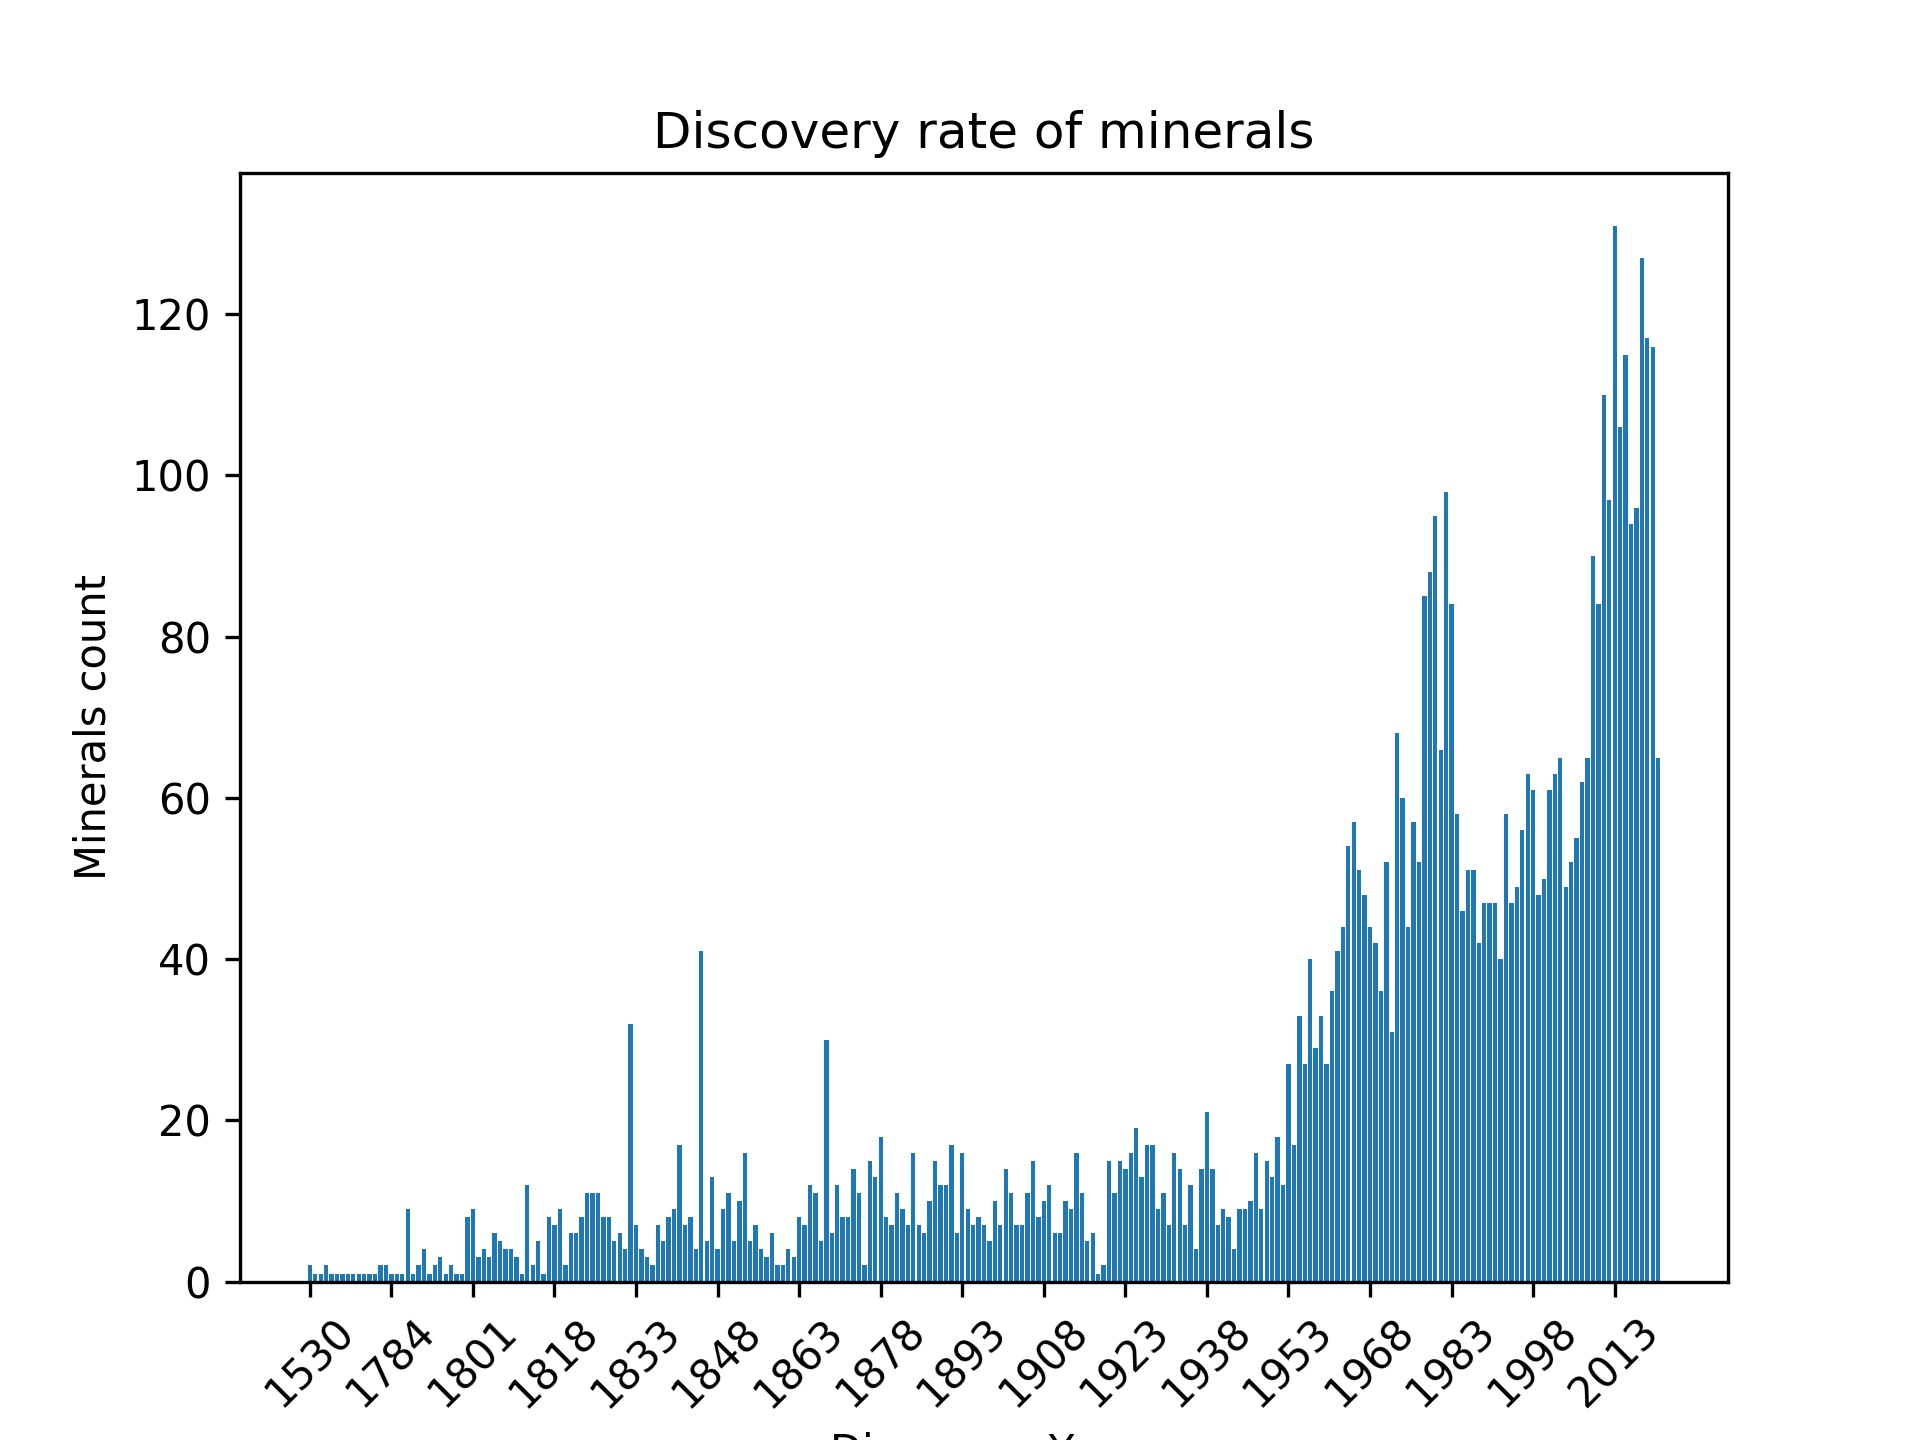
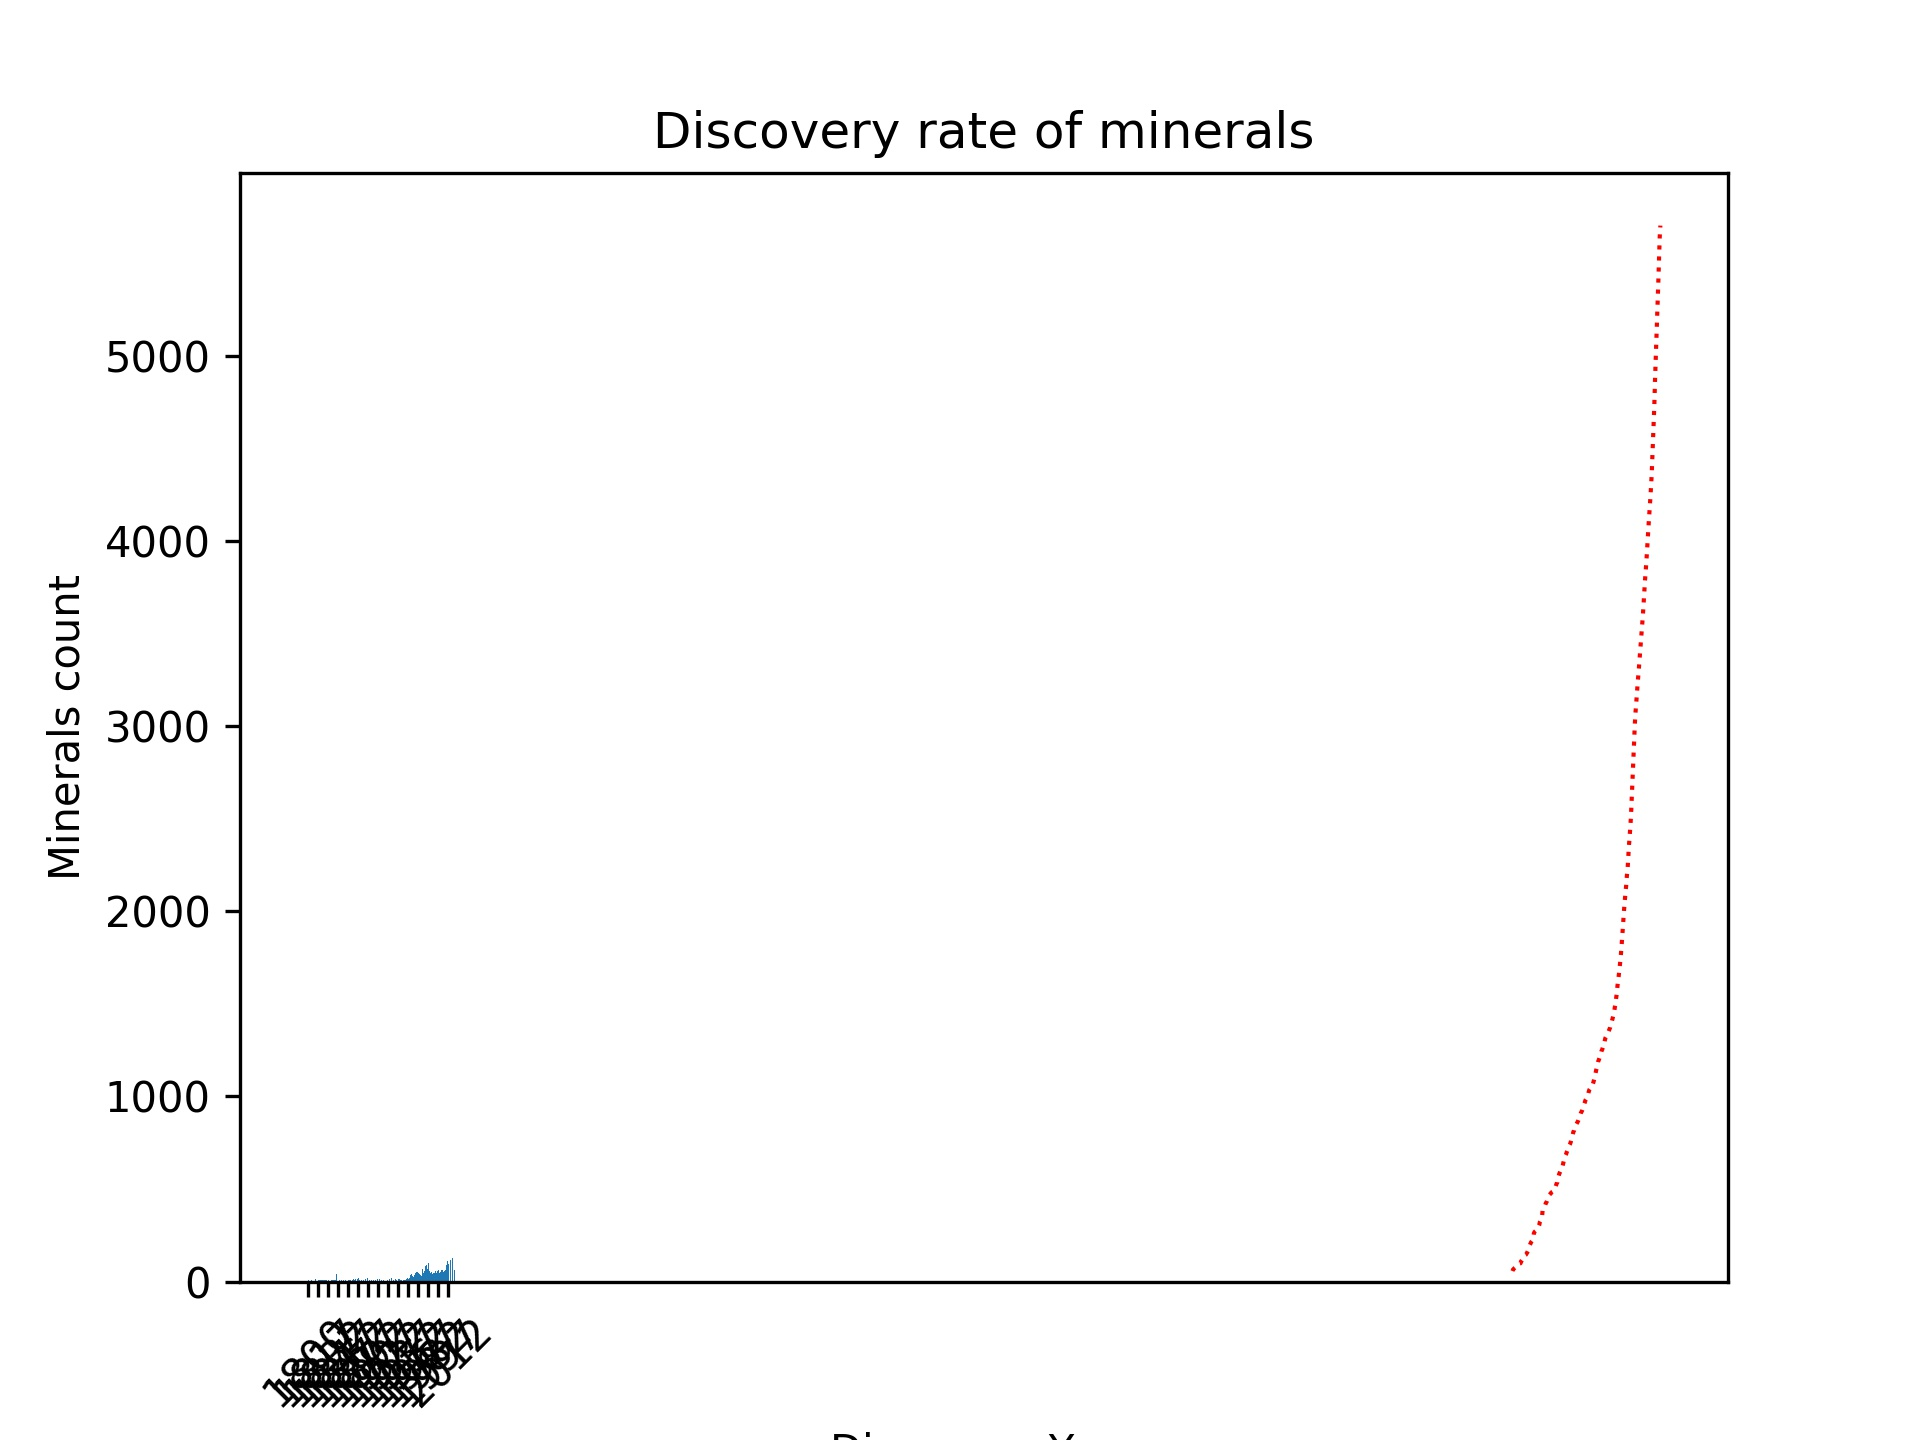
fetch changes

diff --git a/main/compare_localities_vs_year.py b/main/compare_localities_vs_year.py
@@ -57,8 +57,12 @@ mindat_rruff = mindat_rruff[['discovery_year', 'locality_counts']]
 
 # get proportions of rare and endemic minerals
 mindat_rruff.loc[(mindat_rruff['locality_counts'] == 1)]
+mindat_rruff.loc[(mindat_rruff['locality_counts'] >= 2) & (mindat_rruff['locality_counts'] <= 4)]
 
-len(mindat_rruff.loc[(mindat_rruff['locality_counts'] <= 18) & (mindat_rruff['locality_counts'] > 5)]) / 5762 * 100
+mindat_rruff.loc[mindat_rruff['locality_counts'].isna(), 'locality_counts'] = 1.0
+len(mindat_rruff.loc[(mindat_rruff['locality_counts'] > 18)]) / len(mindat_rruff) * 100
+len(mindat_rruff.loc[(mindat_rruff['locality_counts'] <= 18) & (mindat_rruff['locality_counts'] >= 5)]) / len(mindat_rruff) * 100
+len(mindat_rruff.loc[(mindat_rruff['locality_counts'] <= 4) ]) / len(mindat_rruff) * 100
 
 ## Get discovery rates (localities from mindat, discovery year from RRUFF)
 
@@ -66,14 +70,17 @@ discovery_rate_all = get_discovery_rate_all(mindat_rruff)
 discovery_rate_endemic = get_discovery_rate_endemic(mindat_rruff)
 endemic_proportion = get_endemic_proportion(discovery_rate_endemic, discovery_rate_all)
 
+discovery_rate_all['count_cumulative'] = discovery_rate_all.cumsum()
+discovery_rate_all = discovery_rate_all.loc[discovery_rate_all.index >= 1800]
 
-# bar chart of discovery rate of all minerals
+# bar chart of discovery rate of all minerals between 1800 and 2021
 
 y_pos = np.arange(len(discovery_rate_all.index))
 x_ticks = np.arange(len(discovery_rate_all.index), step=15)
 x_labels = discovery_rate_all.index[x_ticks]
 
 plt.bar(y_pos, discovery_rate_all['count'])
+plt.plot(discovery_rate_all.index, discovery_rate_all[['count_cumulative']], color='red', linestyle='dotted', linewidth=1)
 
 plt.xticks(x_ticks, np.array(x_labels, dtype=int), rotation=45)
 
@@ -82,6 +89,19 @@ plt.ylabel('Minerals count')
 plt.title('Discovery rate of minerals')
 
 plt.savefig(f"figures/all_minerals/discovery_rate.jpeg", dpi=300, format='jpeg')
+
+plt.close()
+
+
+# cumulative curve of discovery rate for all minerals
+
+plt.plot(discovery_rate_all.index, discovery_rate_all[['count_cumulative']], color='red', linestyle='dotted', linewidth=1)
+
+plt.xlabel('Discovery Year')
+plt.ylabel('Minerals count')
+plt.title('Discovery rate of minerals')
+
+plt.savefig(f"figures/all_minerals/discovery_rate_cumulative.jpeg", dpi=300, format='jpeg')
 
 plt.close()
 
@@ -117,3 +137,5 @@ plt.title('Discovery rate of minerals')
 plt.savefig(f"figures/endemic_minerals/discovery_rate_bar.jpeg", dpi=300, format='jpeg')
 
 plt.close()
+
+
